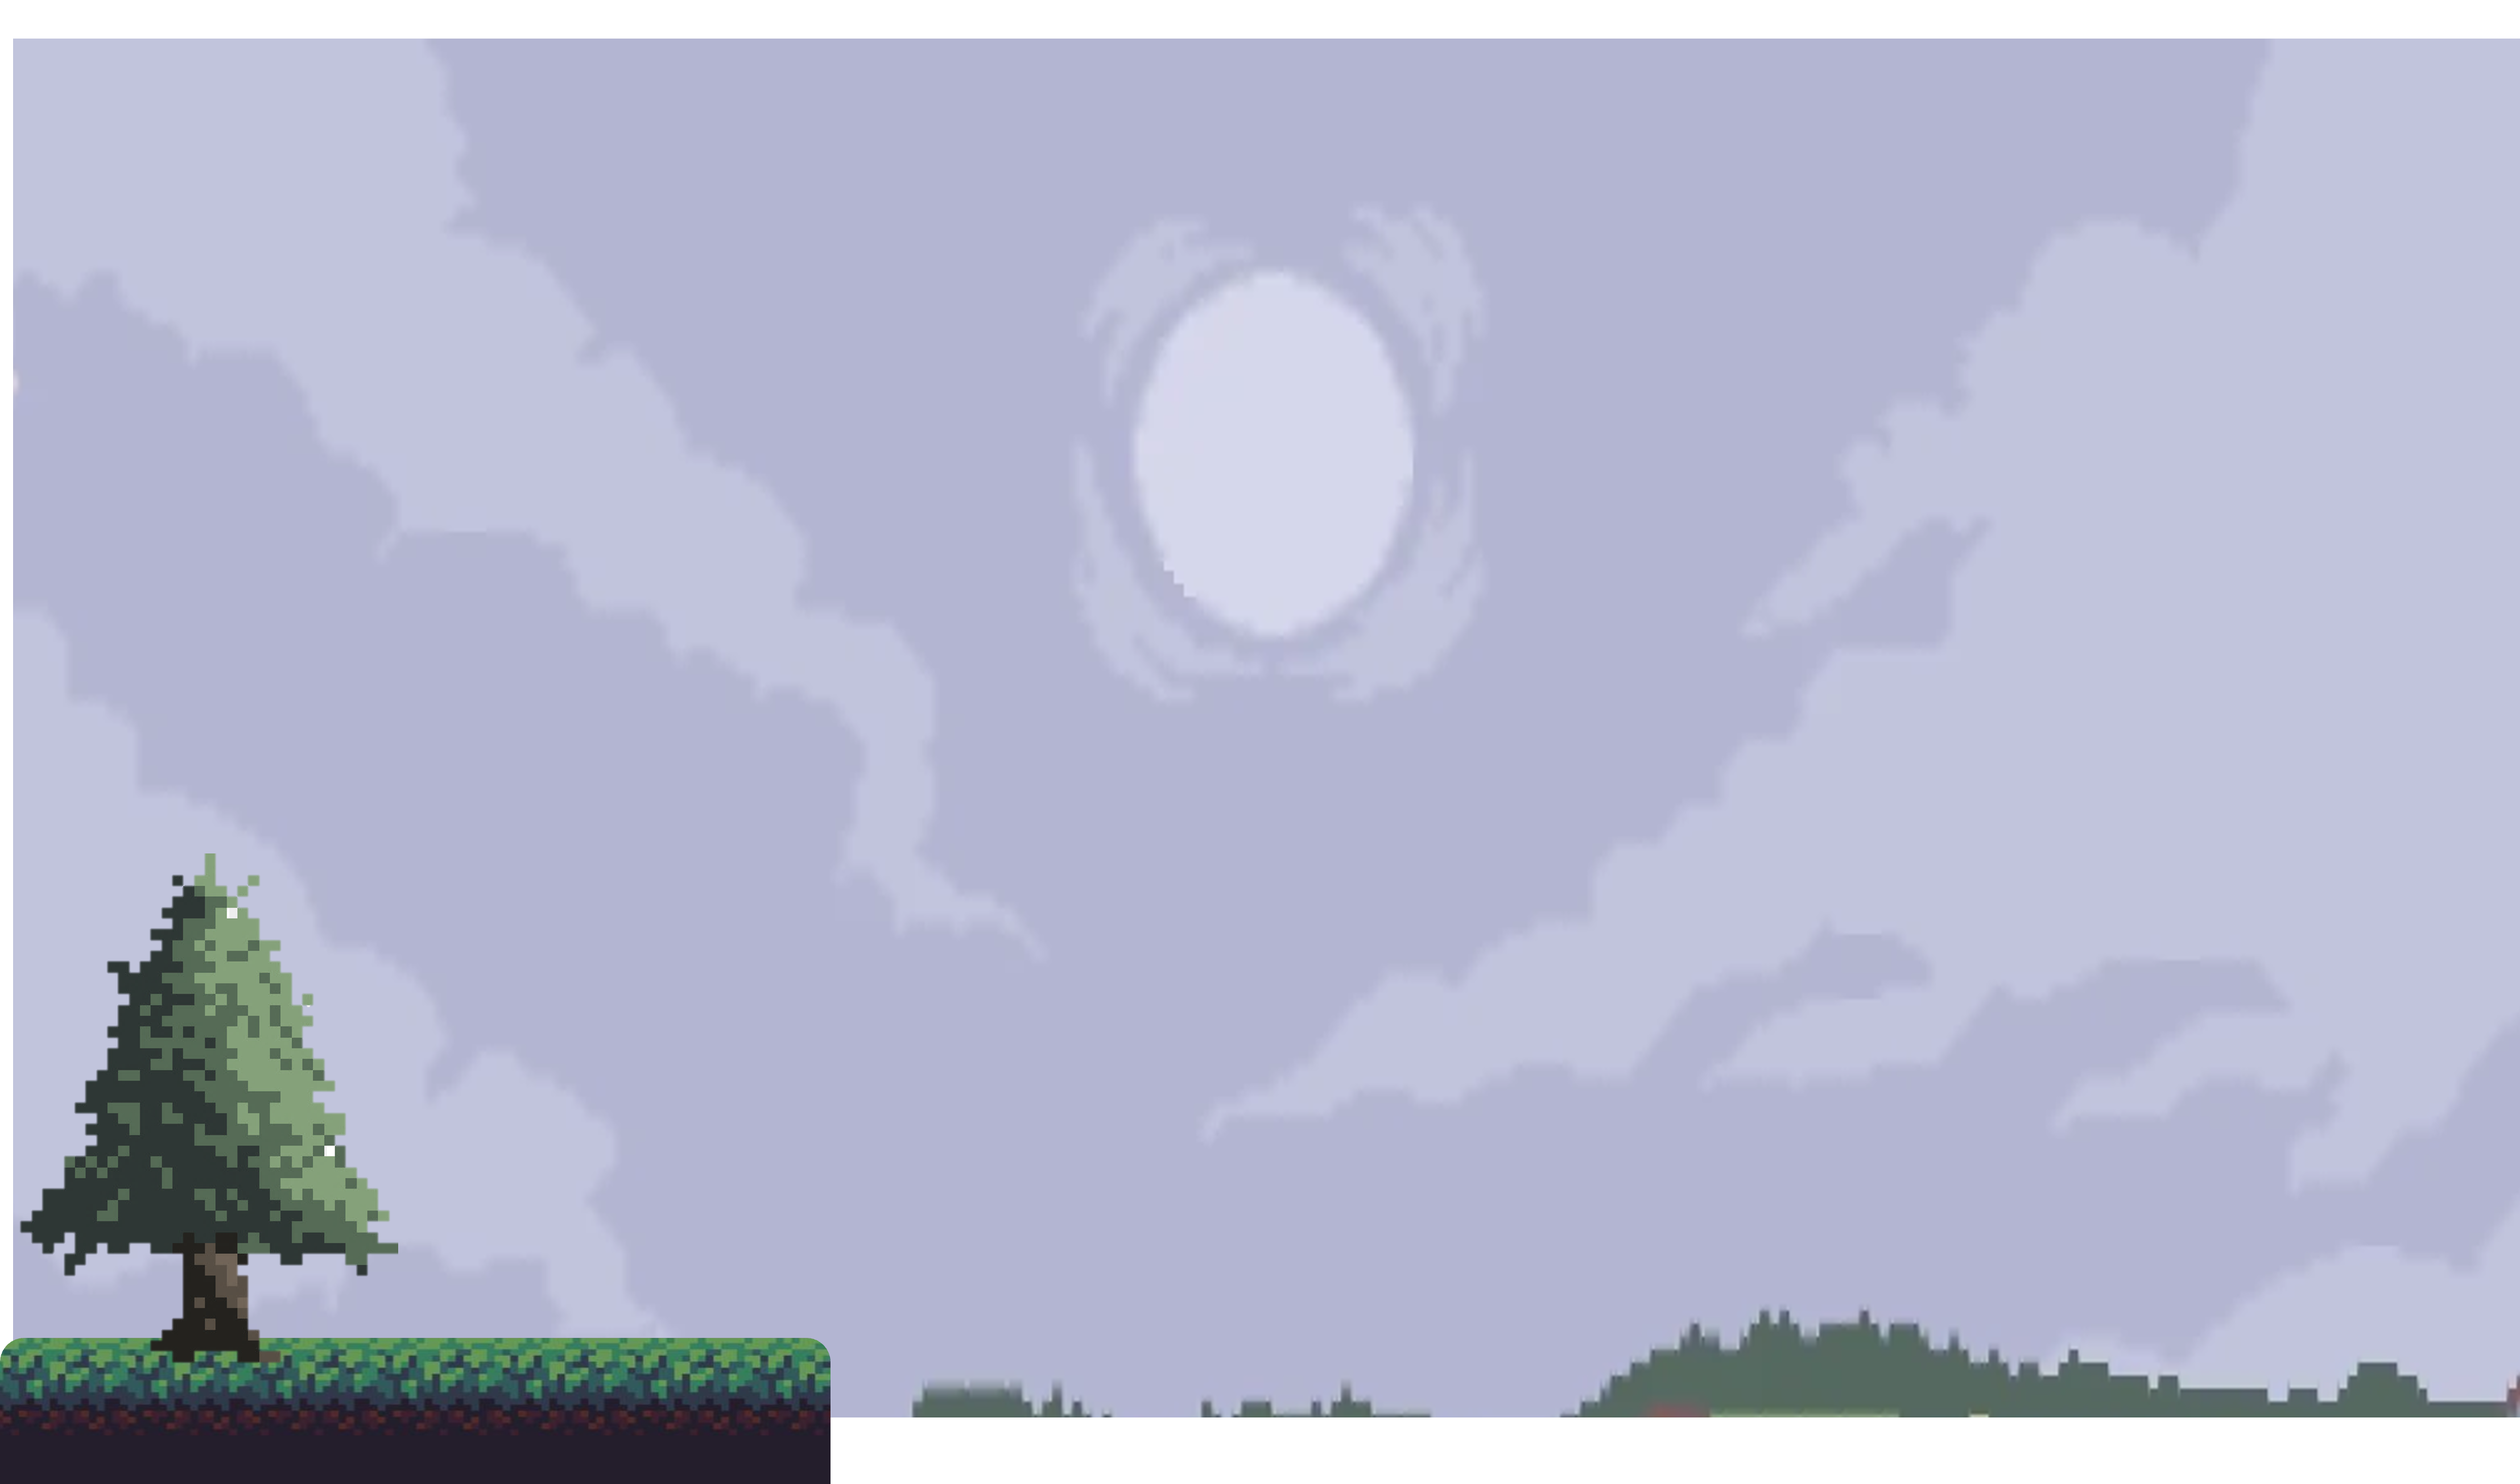
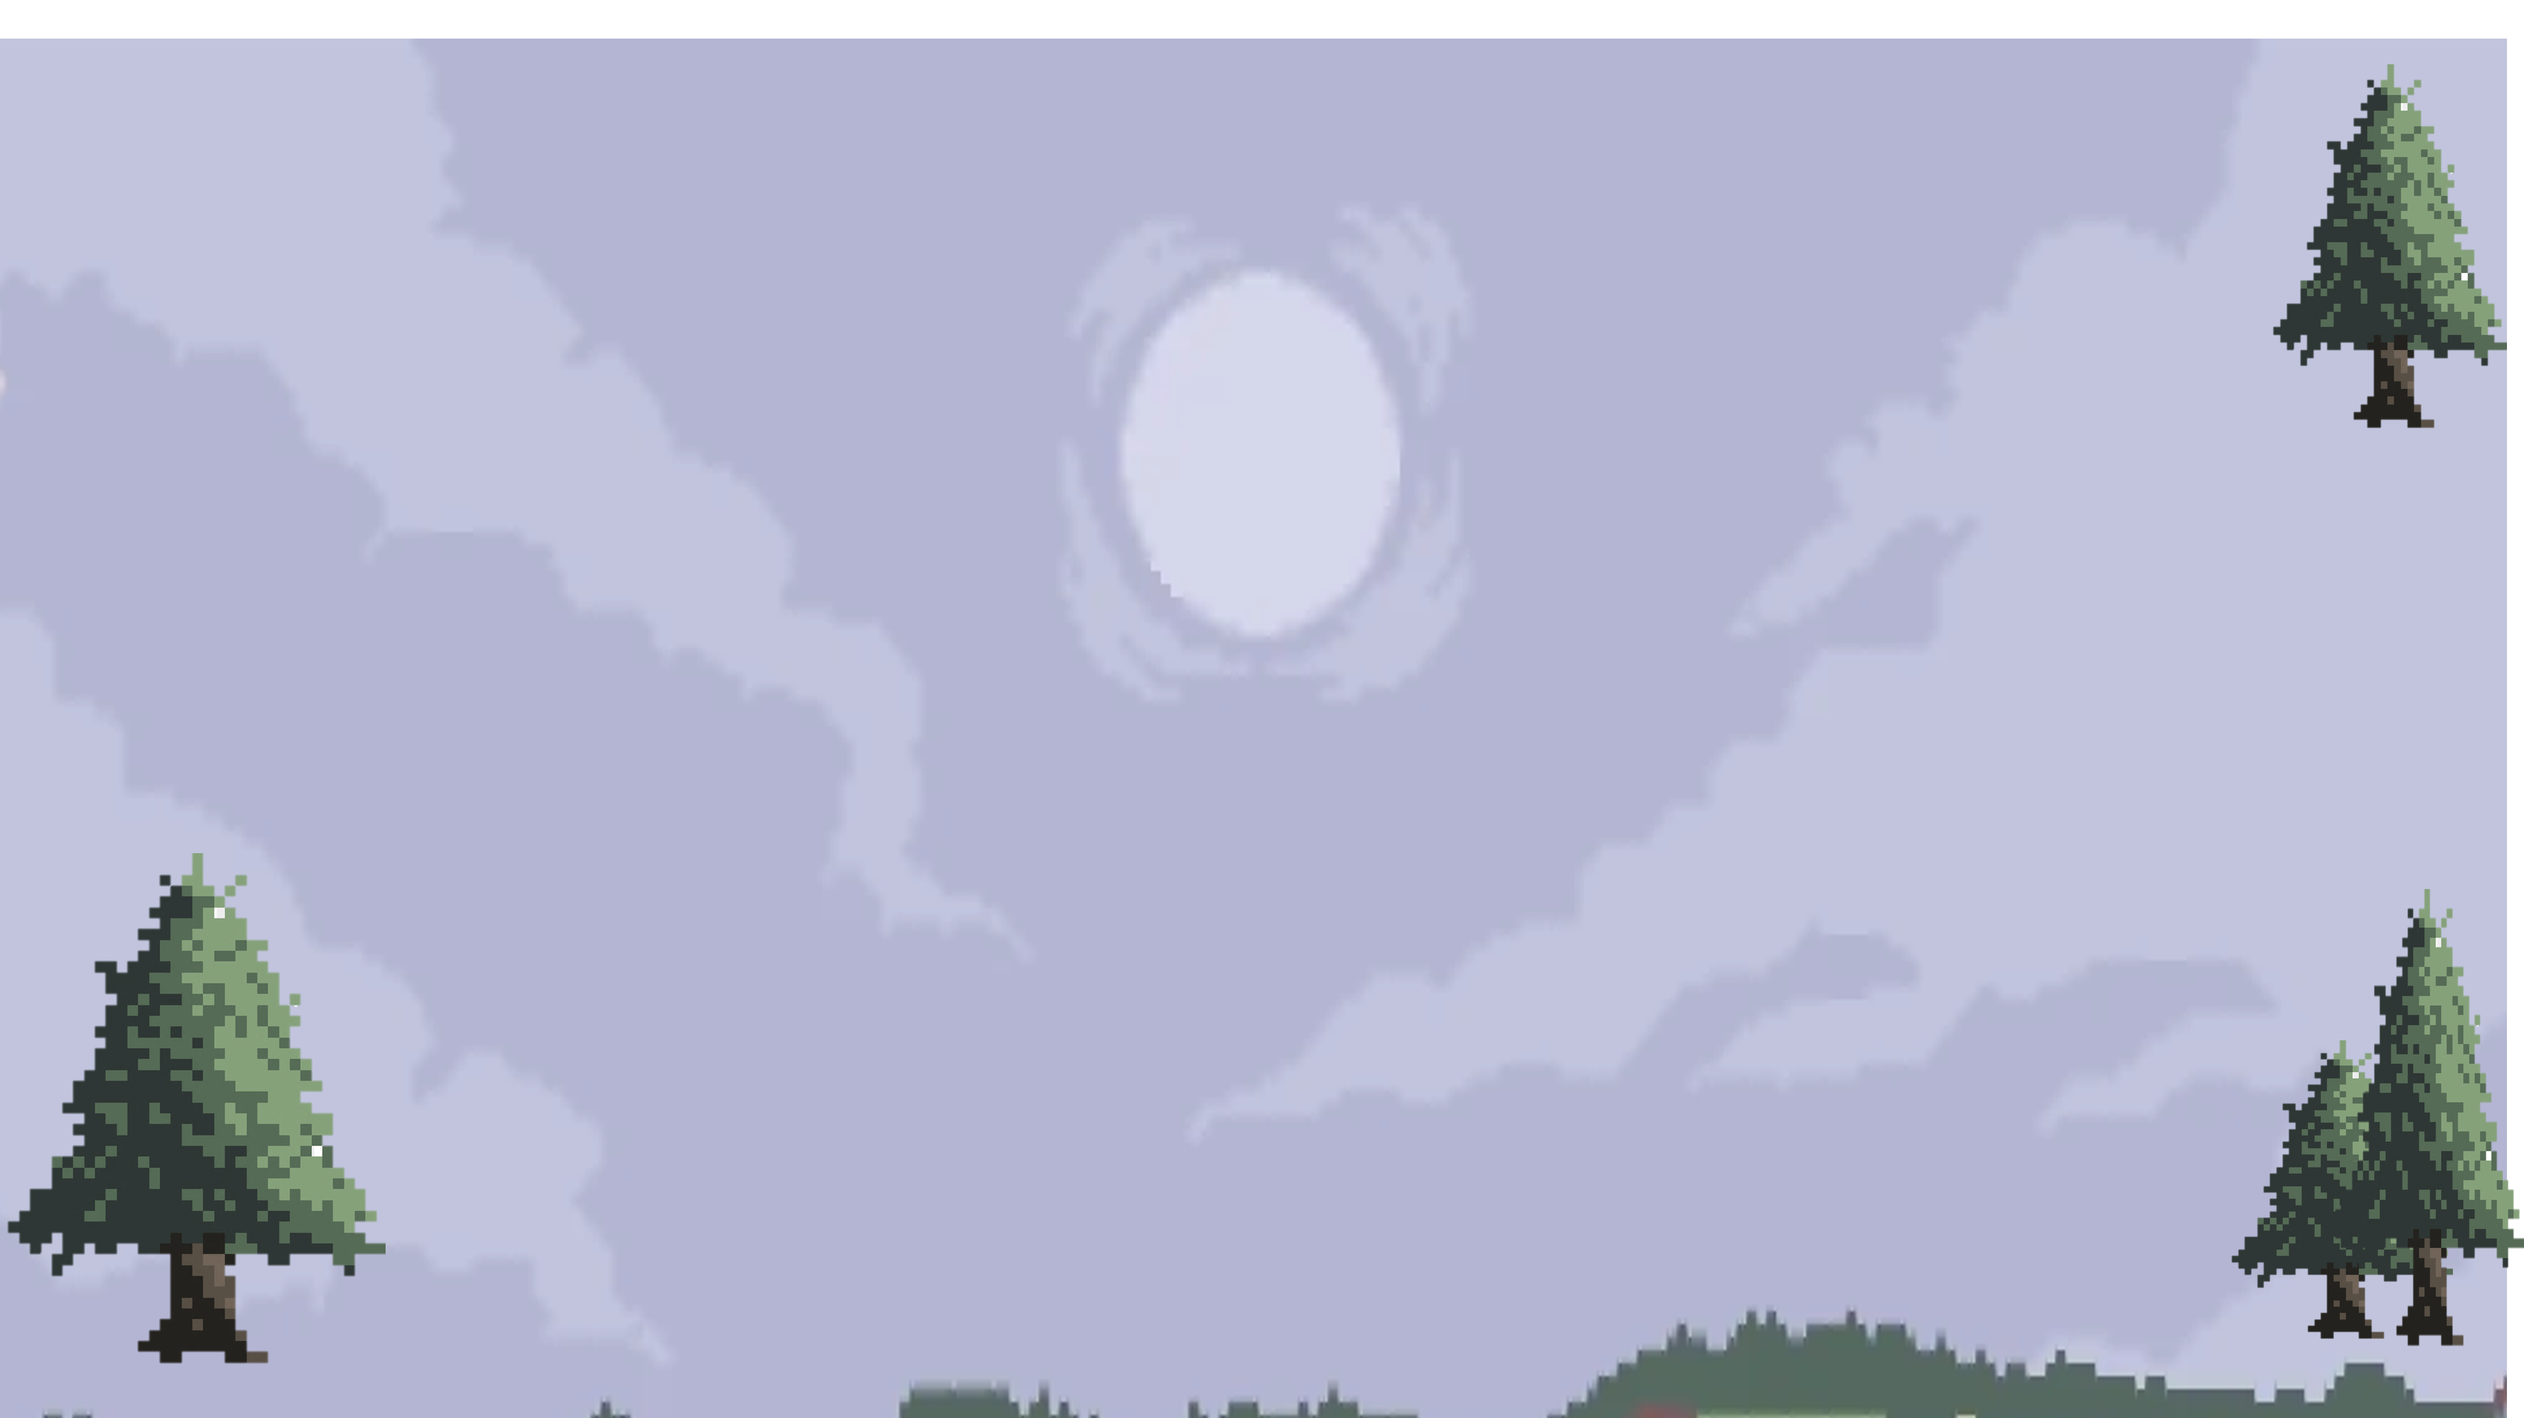
Se agrega NivelB2 con funcionalidad :D

diff --git a/src/scenes/NivelB2.js b/src/scenes/NivelB2.js
@@ -14,17 +14,192 @@ class NivelB2 extends Phaser.Scene{
     
     create() {
         //IMAGENES DE FONDO
-        this.fondo = this.add.image(775, 360, 'NivelB2/NivelB2').setDepth(-2).setScale(.37,.35);
+        this.fondo = this.add.image(775, 360, 'NivelB2/NivelB2').setDepth(-2).setScale(.37,.32);
+        this.flecha = this.add.image(1420, 170, 'NivelB2/flecha').setScale(1.2);
 
         //CAMARA INICIAL EFECTO FADE IN
         this.cameras.main.setBounds(0, 0, 1580, 780);
         this.cameras.main.fadeIn(1000);
+
+        //BANDERA
+        this.movimiento = 1;
+
+        //PERSONAJES
+        //Javier Monstruo 
+        this.javier = this.physics.add.sprite(70, 500, 'Monster', 0).setAlpha(1).setDepth(3).setScale(0.35);
+        this.javier.body.setSize(210, 260);
+        this.javier.body.setMass(1);
+        this.javier.flipX=true;
+
+        // Nubes derecha
+        this.nube1 = this.add.image(-200,150, 'Menu/nube').setAlpha(0.2).setScale(0.6);
+        this.nube2 = this.add.image(50,150, 'Menu/nube').setAlpha(0.2).setScale(0.3);
+        this.nube3 = this.add.image(200,600, 'Menu/nube').setAlpha(0.2).setScale(0.6);
+        this.nube6 = this.add.image(90,580, 'Menu/nube').setAlpha(0.2).setScale(0.2);
+        this.nube7 = this.add.image(-90,580, 'Menu/nube').setAlpha(0.2).setScale(0.8);
+        this.nube9 = this.add.image(-50,460, 'Menu/nube').setAlpha(0.2).setScale(0.3);
+        //Nube izquierda
+        this.nube4 = this.add.image(1800,580, 'Menu/nube').setAlpha(0.2);
+        this.nube5 = this.add.image(1500,360, 'Menu/nube').setAlpha(0.2).setScale(0.5);
+        this.nube8 = this.add.image(1600,50, 'Menu/nube').setAlpha(0.2).setScale(0.3);
+
+        //Agua
+        this.agua = this.physics.add.staticImage(870, 766, 'NivelB2/agua').setScale(.3);
+        this.agua.body.setSize(890,20);
+        this.agua.setOffset(1055,90);
+        //Pasto
+        this.pasto1 = this.physics.add.staticImage(150, 766, 'NivelB2/pasto1').setScale(1.3);
+        this.pasto1.body.setSize(430,100);
+        this.pasto2 = this.physics.add.staticImage(1500, 750, 'NivelB2/pasto2').setScale(1.9,1.3);
+        this.pasto2.body.setSize(520,90);
+        this.pasto3 = this.physics.add.staticImage(75, 350, 'NivelB2/pasto2').setScale(0.9,0.9);
+        this.pasto3.body.setSize(180,53);
+        this.pasto4 = this.physics.add.staticImage(1560, 230, 'NivelB2/pasto2').setScale(1.9,1.3);
+        this.pasto4.body.setSize(520,90);
+        //Troncos
+        this.tronco = this.physics.add.staticImage(600, 740, 'NivelB2/tronco').setScale(0.26);
+        this.tronco.body.setSize(90,20);
+        this.tronco.setOffset(150,55);
+        this.tronco2 = this.physics.add.staticImage(900, 740, 'NivelB2/tronco').setScale(0.26);
+        this.tronco2.body.setSize(90,20);
+        this.tronco2.setOffset(150,55);
+        this.tronco3 = this.physics.add.staticImage(1000, 740, 'NivelB2/tronco').setScale(0.26);
+        this.tronco3.body.setSize(90,20);
+        this.tronco3.setOffset(150,55);
+        this.tronco4 = this.physics.add.staticImage(50, 300, 'NivelB2/tronco2');
+        this.tronco4.body.setSize(60,30);
+
+        // PUENTES
+        //Grupo puente A
+        this.puentesA = this.physics.add.staticGroup();
+        this.puentesA.create(600, 500, 'NivelB2/puente').setSize(120,10).setOffset(2,35).disableBody(true,true);
+        this.puentesA.create(1200, 600, 'NivelB2/puente').setSize(120,10).setOffset(2,35).disableBody(true,true);
+        this.puentesA.create(910, 490, 'NivelB2/puente').setSize(120,10).setOffset(2,35).disableBody(true,true);
+        this.puentesA.create(350, 400, 'NivelB2/puente').setSize(120,10).setOffset(2,35).disableBody(true,true);
+        //Grupo puente B
+        this.puentesB = this.physics.add.staticGroup();
+        this.puentesB.create(660, 260, 'NivelB2/puente').setSize(120,10).setOffset(2,35).disableBody(true,true);
+        this.puentesB.create(960, 140, 'NivelB2/puente').setSize(120,10).setOffset(2,35).disableBody(true,true);
+        this.puentesB.create(1200,260, 'NivelB2/puente').setSize(120,10).setOffset(2,35).disableBody(true,true);
+        
+        //Botones
+        this.boton = this.physics.add.staticImage(1500, 705, 'NivelB2/boton').setScale(0.26);
+        this.boton.body.setSize(20,15);
+        this.boton.setOffset(35,30);
+        this.boton2 = this.add.image(1500, 705, 'NivelB2/boton2').setScale(0.26).setAlpha(0);
+        this.boton3 = this.physics.add.staticImage(50, 280, 'NivelB2/boton').setScale(0.26);
+        this.boton3.body.setSize(20,15);
+        this.boton3.setOffset(35,30);
+        this.boton4 = this.add.image(50, 280, 'NivelB2/boton2').setScale(0.26).setAlpha(0);
+
+         //COLISIONES
+         this.javier.body.setCollideWorldBounds(true);
+         this.physics.add.collider(this.javier, this.agua, () => {
+            this.scene.restart();
+         });
+         this.physics.add.collider(this.javier, this.pasto1);
+         this.physics.add.collider(this.javier, this.pasto2);
+         this.physics.add.collider(this.javier, this.pasto3);
+         this.physics.add.collider(this.javier, this.pasto4);
+         this.physics.add.collider(this.javier, this.tronco);
+         this.physics.add.collider(this.javier, this.tronco2);
+         this.physics.add.collider(this.javier, this.tronco3);
+         this.physics.add.collider(this.javier, this.tronco4);
+         this.physics.add.collider(this.javier, this.puentesA);
+         this.physics.add.collider(this.javier, this.puentesB);
+
+         //Colision con primer boton
+         this.physics.add.collider(this.javier, this.boton, () => {
+            this.boton.setAlpha(0);
+            this.boton2.setAlpha(1);
+            this.puentesA.getChildren()[0].enableBody(false,0,0,true,true);
+            this.puentesA.getChildren()[1].enableBody(false,0,0,true,true);
+            this.puentesA.getChildren()[2].enableBody(false,0,0,true,true);
+            this.puentesA.getChildren()[3].enableBody(false,0,0,true,true); 
+         });
+
+         //Colision con segundo boton
+         this.physics.add.collider(this.javier, this.boton3, () => {
+            this.boton3.setAlpha(0);
+            this.boton4.setAlpha(1);
+            this.puentesB.getChildren()[0].enableBody(false,0,0,true,true);
+            this.puentesB.getChildren()[1].enableBody(false,0,0,true,true);
+            this.puentesB.getChildren()[2].enableBody(false,0,0,true,true);
+         });
+        
+         //ANIMACIONES
+        this.anims.create({ key: 'monsterC', frames: this.anims.generateFrameNames('Monster', { prefix: 'monstruo', suffix: '.png', start: 1, end: 4 }), repeat: -1, frameRate: 6 });
+        this.anims.create({ key: 'monsterIdle', frames: this.anims.generateFrameNames('Monster', { prefix: 'monstruoIdle', suffix: '.png', start: 1, end:1 }), repeat: -1, frameRate: 2 });
  
+         // TIMELINES NUBES DERECHA
+         this.timeline = this.tweens.createTimeline(); 
+         this.timeline = this.tweens.timeline({
+             targets: [this.nube1,this.nube2,this.nube3,this.nube6,this.nube7,this.nube9],
+             paused: true,
+             loop: -1,
+             totalDuration: 80000,
+             tweens: [
+                 {
+                     x: 1800,
+                     yoyo:true,
+                     repeat:-1,
+                 },
+             ]
+         });
+         this.timeline.play();
+ 
+         // TIMELINES NUBES IZQUIERDA
+         this.timeline2 = this.tweens.createTimeline(); 
+         this.timeline2 = this.tweens.timeline({
+             targets: [this.nube4,this.nube5,this.nube8],
+             paused: true,
+             loop: -1,
+             totalDuration: 90000,
+             tweens: [
+                 {
+                     x: -300,
+                     yoyo:true,
+                     repeat:-1,
+                 },
+             ]
+         });
+         this.timeline2.play();
+
+        //Teclado
+        this.cursors = this.input.keyboard.createCursorKeys();         
     }
 
 
     update(time, delta) {
-       
+        //MOVIMIENTOS
+        if(this.movimiento==1)
+        {
+            if(this.javier.body.onFloor()&&this.cursors.left.isUp&&this.cursors.right.isUp)
+            {
+                this.javier.anims.play('monsterIdle',true);
+            }3
+        if (this.cursors.left.isDown)
+            {
+                this.javier.setVelocityX(-200);
+                this.javier.anims.play('monsterC',true);
+                this.javier.flipX=0;
+            }
+        else if (this.cursors.right.isDown)
+            {
+                this.javier.setVelocityX(200);
+                this.javier.anims.play('monsterC',true);
+                this.javier.flipX=1;
+            }
+        else
+        {
+            this.javier.setVelocityX(0);
+        }
+ 
+        if ((this.cursors.up.isDown && this.javier.body.onFloor()))
+            {
+                this.javier.setVelocityY(-500);
+            }
+        }
     }
 
 

diff --git a/src/scenes/Bootloader.js b/src/scenes/Bootloader.js
@@ -43,7 +43,7 @@ class Bootloader extends Phaser.Scene{
         this.load.image(['NivelB1/NivelB1','NivelB1/monsterAldea']);
         this.load.atlas('Monster', 'monsterSprite/monstruo.png', 'monsterSprite/monstruo.json');
         //PARA NIVEL B2
-        this.load.image(['NivelB2/NivelB2']);
+        this.load.image(['NivelB2/NivelB2','NivelB2/agua','NivelB2/pasto1','NivelB2/pasto2','NivelB2/tronco','NivelB2/boton','NivelB2/boton2','NivelB2/tronco2','NivelB2/flecha','NivelB2/puente']);
         //PARA NIVEL B3
         this.load.image(['NivelB3/NivelB3']);
         //PARA NIVEL B4
@@ -74,7 +74,7 @@ class Bootloader extends Phaser.Scene{
     }
 
     create(){
-        this.scene.start('NivelB1');
+        this.scene.start('NivelB2');
         //this.scene.launch('Menu');
         //console.log(this.scene.manager.scenes)
     }
